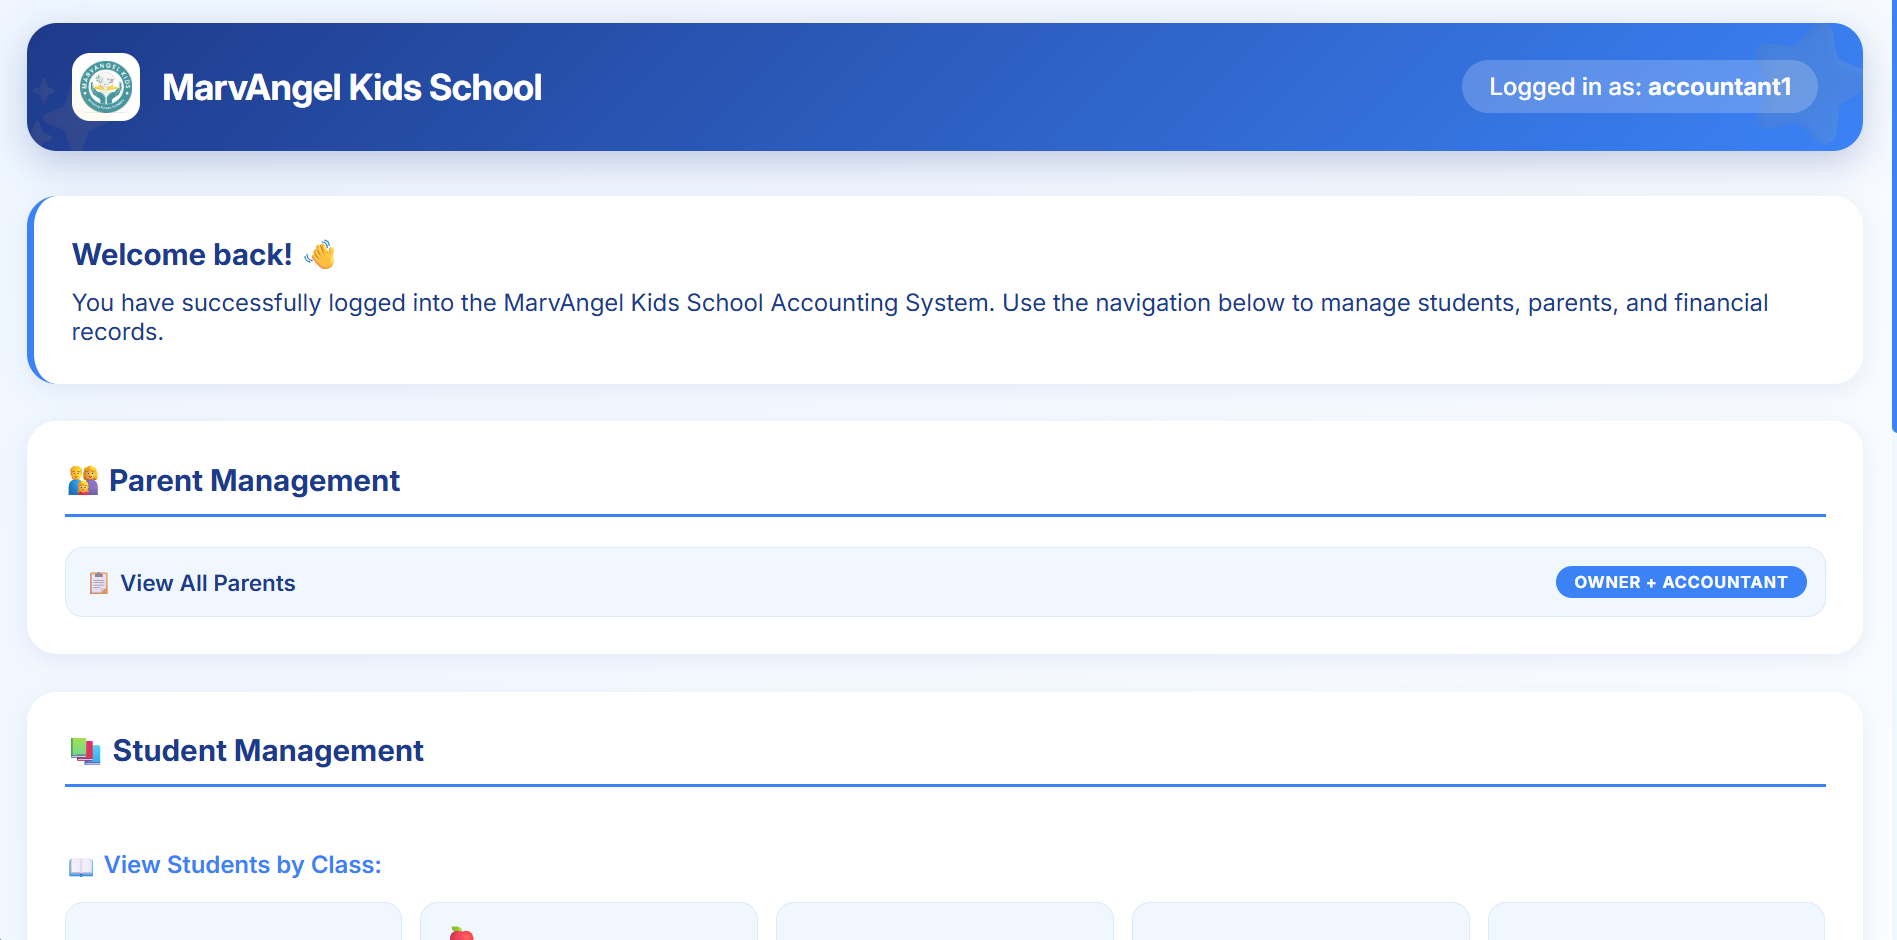
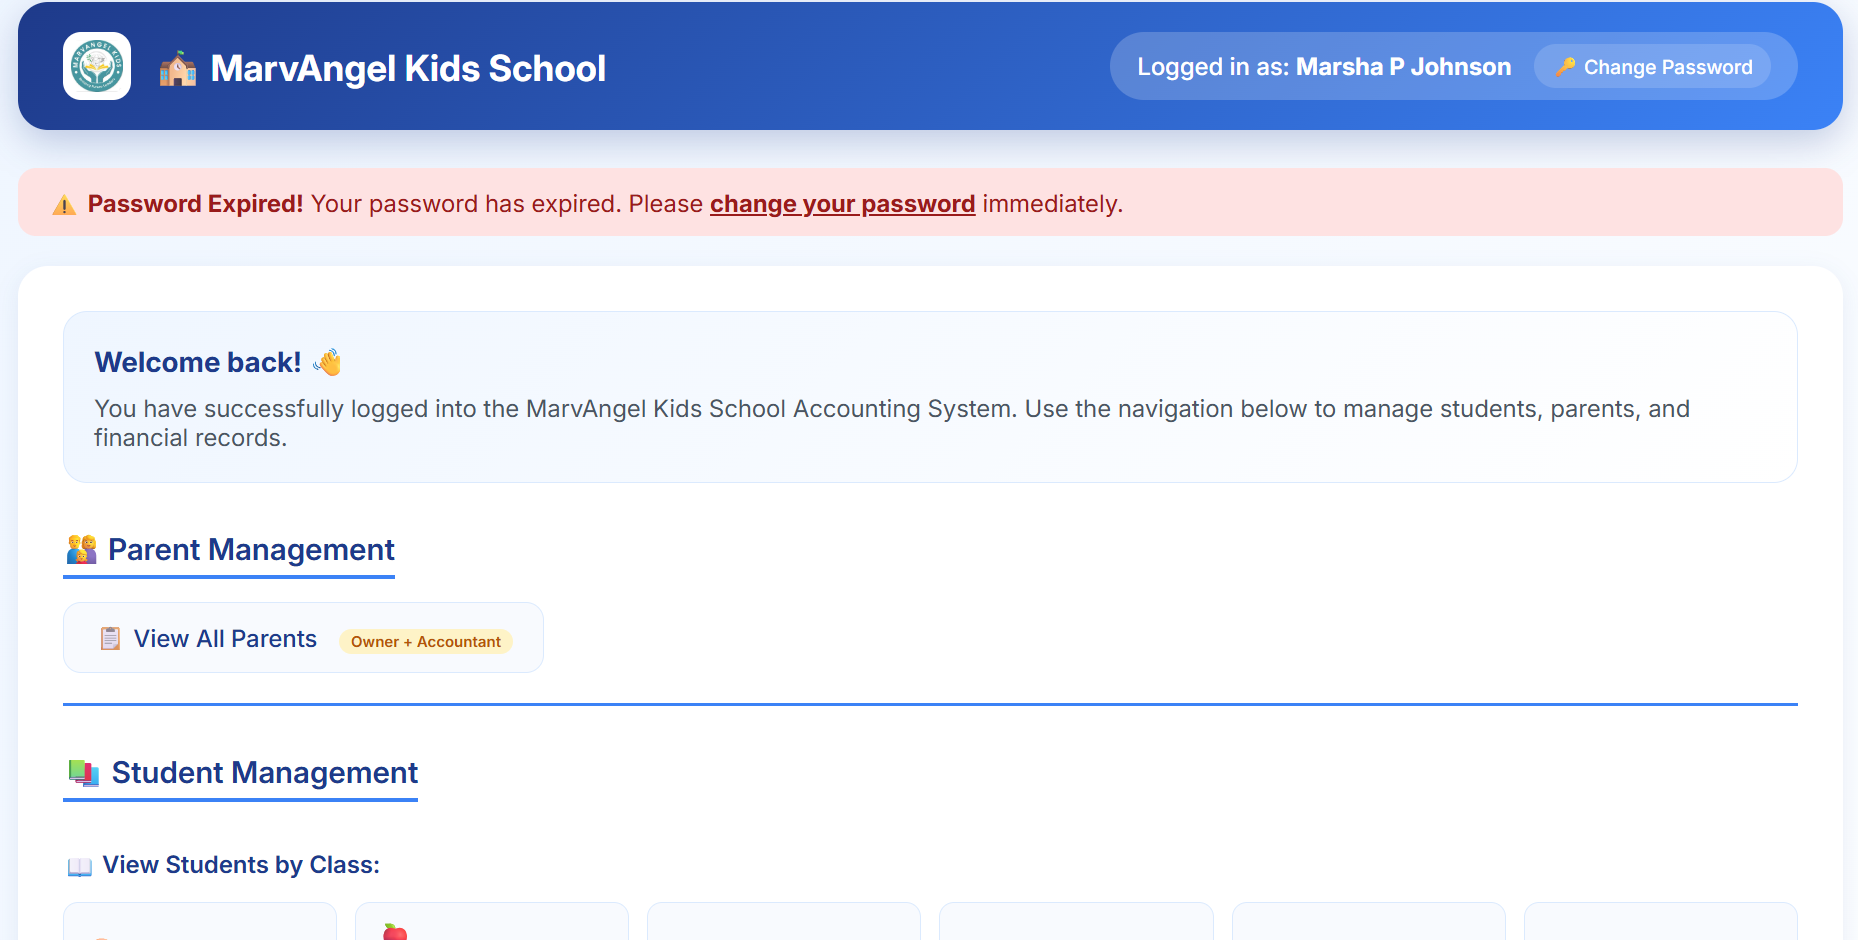
Updated demo images to account for new UI changes

diff --git a/src/main/java/com/school/accounting/repository/PaymentRepository.java b/src/main/java/com/school/accounting/repository/PaymentRepository.java
@@ -1,0 +1,5 @@
+package com.school.accounting.repository;
+
+public class PaymentRepository {
+    
+}
